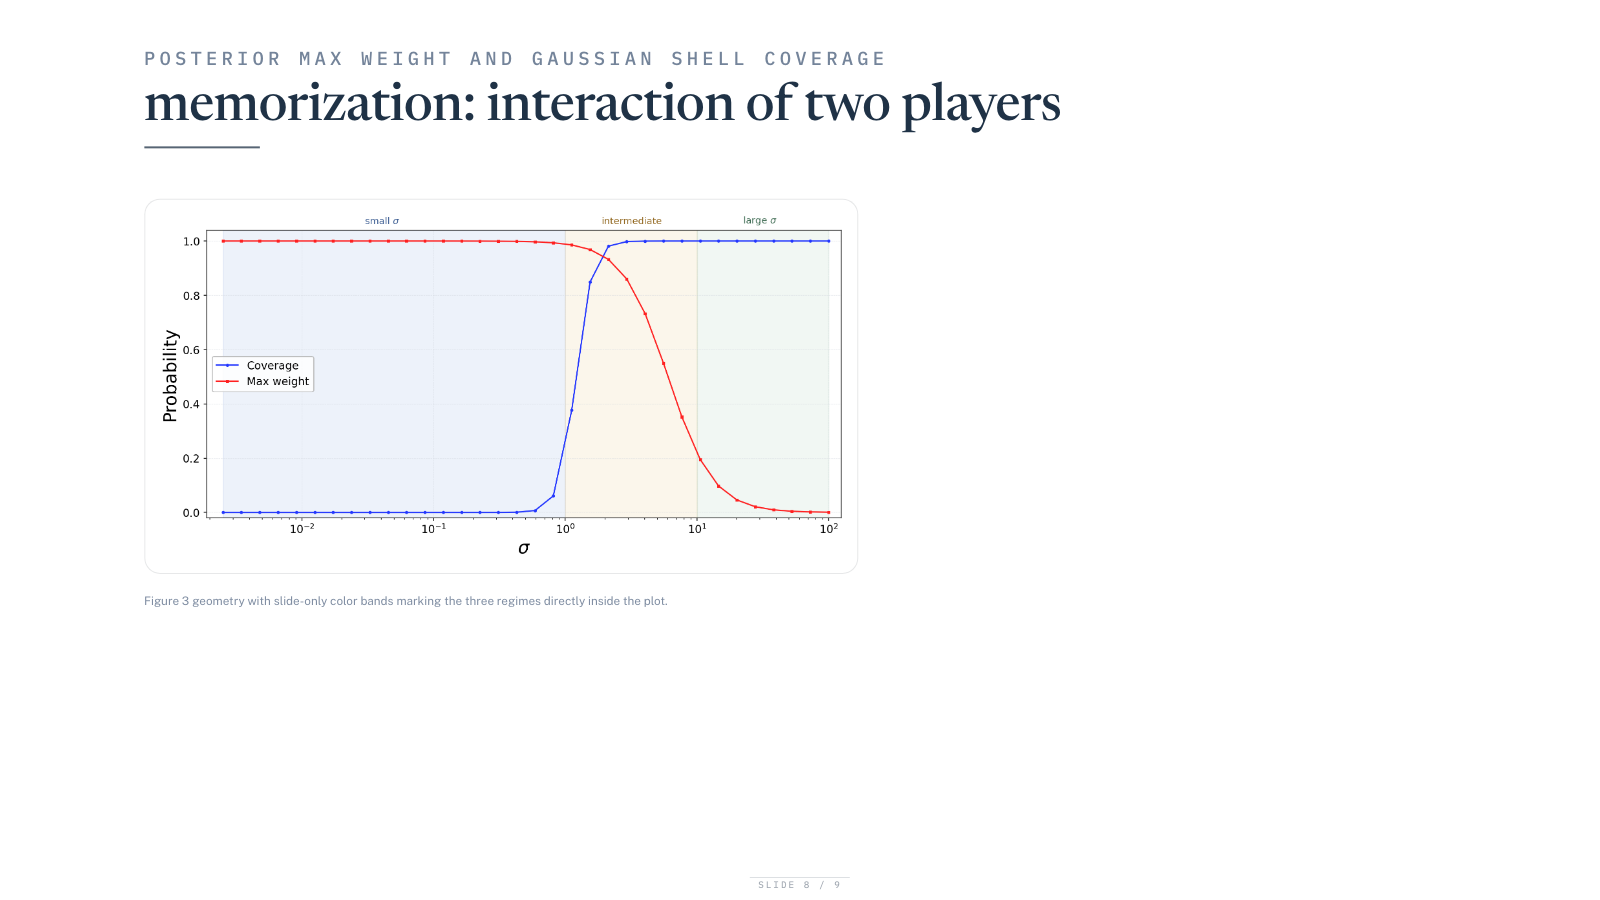
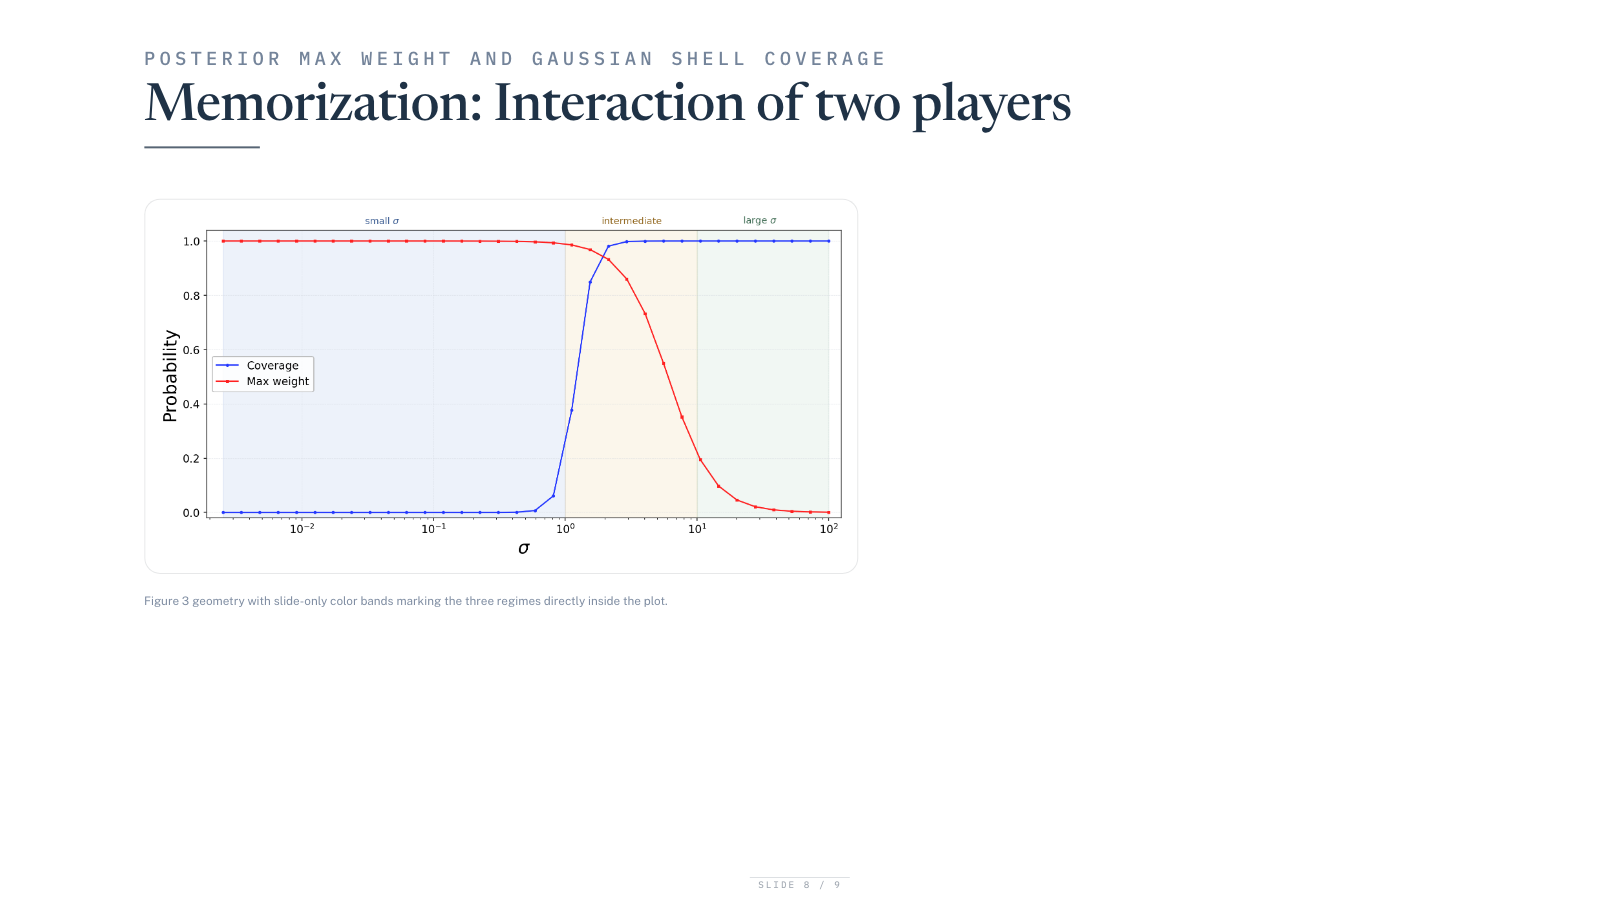
Refine slide 8 interaction summary

Changed region(s): [[0.0938, 0.0933, 0.6875, 0.1556]]

diff --git a/08-the-danger-zone-visualized.html b/08-the-danger-zone-visualized.html
@@ -3,7 +3,7 @@
 <head>
   <meta charset="utf-8">
   <meta name="viewport" content="width=device-width, initial-scale=1.0, maximum-scale=1.0, user-scalable=no">
-  <title>ICML Presentation · Slide 8 · memorization: interaction of two players</title>
+  <title>ICML Presentation · Slide 8 · Memorization: Interaction of two players</title>
   <link rel="preconnect" href="https://fonts.googleapis.com">
   <link rel="preconnect" href="https://fonts.gstatic.com" crossorigin>
   <link href="https://fonts.googleapis.com/css2?family=IBM+Plex+Mono:wght@400;500&family=Newsreader:opsz,wght@6..72,400;6..72,500;6..72,600;6..72,700&family=Public+Sans:wght@300;400;500;600;700&display=swap" rel="stylesheet">
@@ -104,7 +104,8 @@
 
     .interaction-copy .bluebox,
     .interaction-copy .greenbox,
-    .interaction-copy .goldbox {
+    .interaction-copy .goldbox,
+    .interaction-copy .redbox {
       margin: 0 0 0.48em 0;
       font-size: 0.64em;
       line-height: 1.2;
@@ -113,6 +114,21 @@
     .interaction-copy .katex-display {
       margin: 0.1em 0 0.05em;
       font-size: 0.78em;
+    }
+
+    .interaction-takeaway {
+      width: min(100%, 58rem);
+      margin: calc(0.72em + 0.25in) auto 0;
+      text-align: center;
+      font-family: "Newsreader", Georgia, serif;
+      font-size: 0.7em;
+      line-height: 1.2;
+      color: #31465e;
+    }
+
+    .interaction-takeaway p {
+      margin: 0;
+      color: inherit;
     }
 
     @media (max-width: 1280px), (max-aspect-ratio: 16/10) {
@@ -138,7 +154,7 @@
   <div class="reveal standalone-reveal">
     <div class="slides">
       <section class="interaction-slide">
-        <h2 data-kicker="Posterior max weight and Gaussian shell coverage">memorization: interaction of two players</h2>
+        <h2 data-kicker="Posterior max weight and Gaussian shell coverage">Memorization: Interaction of two players</h2>
 
         <div class="interaction-layout">
           <div class="interaction-visual">
@@ -152,7 +168,7 @@
           <div class="interaction-copy">
             <div class="bluebox fragment fade-up">
               <span class="title">Player 1: posterior concentration</span>
-              $$w_i(y,\sigma)=\frac{\exp\!\left(-\|y-x_i\|^2/(2\sigma^2)\right)}{\sum_{j=1}^N \exp\!\left(-\|y-x_j\|^2/(2\sigma^2)\right)}$$
+              $$m_\sigma(x)=\sum_{i=1}^N w_i(x,\sigma)\,x_i$$
               $$W_\sigma(\mathcal D):=\mathbb E\!\left[\max_i w_i(X+\sigma Z,\sigma)\right]$$
               High $W_\sigma$ means the empirical-optimal denoiser is already dominated by one training image.
             </div>
@@ -169,6 +185,10 @@
               Memorization needs both players. Small noise lacks coverage; large noise lacks concentration; the danger zone is the intermediate overlap.
             </div>
           </div>
+        </div>
+
+        <div class="interaction-takeaway fragment fade-up">
+          <p>High weight combined with high coverage means the model fits a one nearest neighbor map on a training region that contains a large proportion of noised test images.</p>
         </div>
       </section>
     </div>
